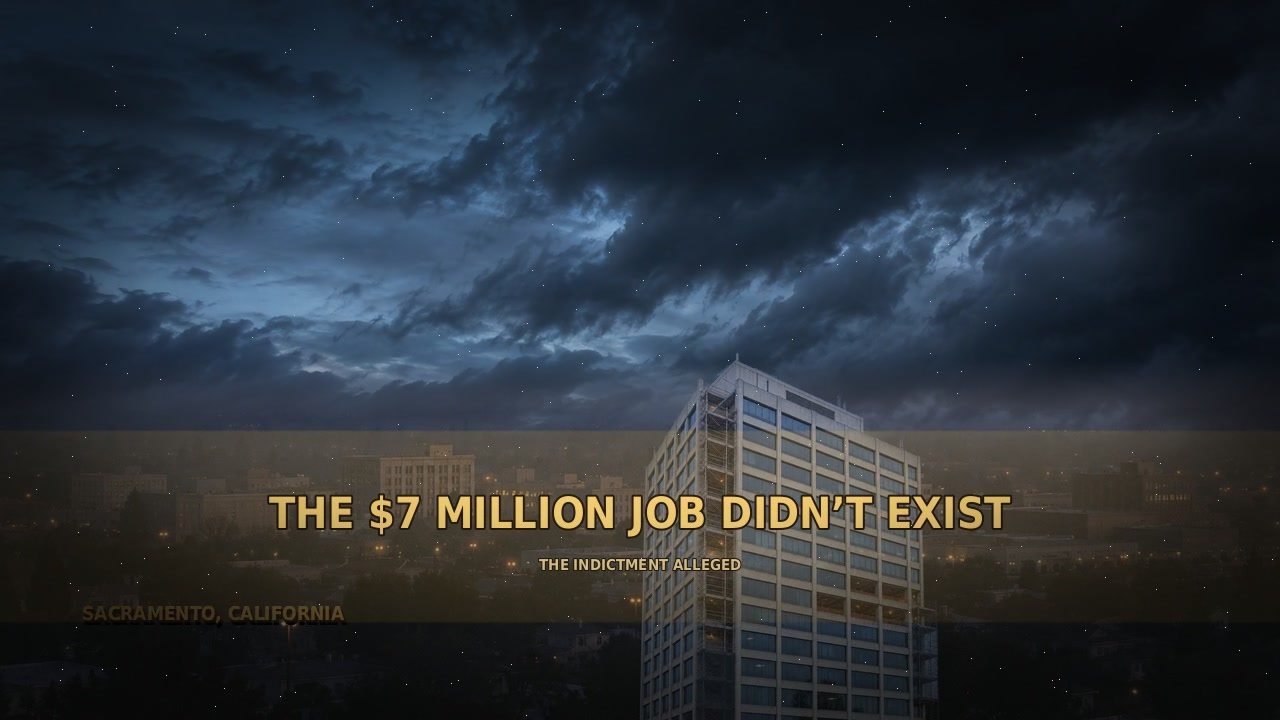
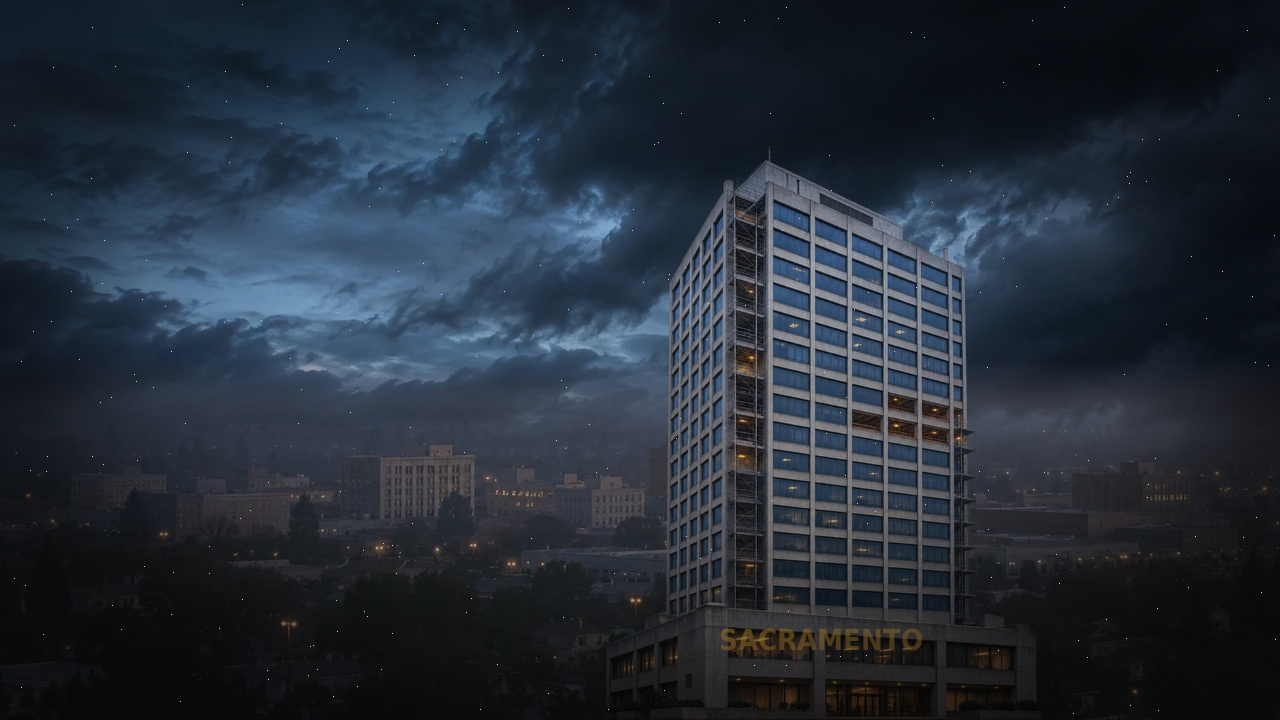
Refine Barry Minkow opening tower reveal

diff --git a/magnates-studio/public/assets/barry-minkow-opening/scene.js b/magnates-studio/public/assets/barry-minkow-opening/scene.js
@@ -2,17 +2,17 @@
 'use strict';
 const W=1280,H=720,D=8,cv=document.getElementById('stage'),ctx=cv.getContext('2d',{alpha:false});
 const root='assets/';
-const specs=[['sky','sacramento-storm-sky.webp'],['city','sacramento-skyline.webp'],['tower','office-tower-cutout.webp'],['corridor','construction-corridor.webp'],['portraitBackground','portrait-facade-background.webp'],['portrait','barry-minkow-caption-free-portrait.webp']];
+const specs=[['sky','sacramento-storm-sky.webp'],['city','sacramento-skyline.webp'],['tower','sacramento-tower-podium-cutout.webp'],['corridor','construction-corridor.webp'],['portraitBackground','portrait-facade-background.webp'],['portrait','barry-minkow-caption-free-portrait.webp']];
 const images={}; let ready=false,playing=true,anchor=performance.now(),anchorT=0,lastBeat=-1;
 const beats=[
- {a:0,b:.55,label:'Optical flash contracts and dissipates',layers:['Flash','Film texture']},
+ {a:0,b:.72,label:'A full-frame optical flare contracts to a hot spot, then dissipates',layers:['Contracting flash','Film texture']},
  {a:.55,b:1.45,label:'Storm sky and Sacramento emerge',layers:['Moving storm sky','City plate','Film grain']},
- {a:1.45,b:2.65,label:'The blue office tower rises into frame',layers:['Tower cutout','City plate','Storm sky']},
+ {a:1.45,b:2.65,label:'The blue construction tower and illuminated podium emerge as one cutout',layers:['Tower + podium cutout','City plate','Storm sky']},
  {a:2.65,b:3.85,label:'A warm searchlight scans the facade',layers:['Searchlight beam','Tower cutout']},
- {a:3.85,b:5.05,label:'The gold title unfolds across the tower',layers:['Editable title','Gold reveal matte','Tower cutout']},
- {a:5.05,b:6.35,label:'A downward gold occlusion reveals the unfinished corridor',layers:['Corridor plate','Gold wipe','Allegation qualifier']},
- {a:6.35,b:7.12,label:'The corridor advances toward camera',layers:['Corridor plate','Allegation qualifier']},
- {a:7.12,b:8,label:'Flash cut: separate portrait and facade layers assemble',layers:['Facade background','Caption-free portrait cutout','Editable name title']}
+ {a:3.85,b:5.05,label:'Textured gold “SACRAMENTO” glides right across the podium',layers:['Editable location text','Facade-texture fill','Tower + podium cutout']},
+ {a:5.05,b:6.35,label:'A gold-edged occlusion reveals the unfinished corridor',layers:['Corridor plate','Gold wipe']},
+ {a:6.35,b:7.12,label:'The corridor advances toward camera',layers:['Corridor plate']},
+ {a:7.12,b:8,label:'Flash cut: separate facade and portrait layers assemble',layers:['Facade background','Caption-free portrait cutout']}
 ];
 function E(id,file){const im=new Image();im.onload=()=>{images[id]=im;if(Object.keys(images).length===specs.length){ready=true;renderAt(0);}};im.onerror=()=>console.error('Missing Barry opening asset',file);im.src=root+file;}
 specs.forEach(s=>E(s[0],s[1]));
@@ -29,36 +29,39 @@ function drawSkyCity(t){
 function drawTower(t){
  const reveal=smooth((t-1.05)/.95), close=smooth((t-2.2)/1.25), pull=smooth((t-3.6)/.8);
  if(reveal<=0)return;
- const h=mix(385,595,close)*(1-.24*pull),w=h*(images.tower.width/images.tower.height),cx=806+mix(65,0,close)-20*pull,base=H+85;
- ctx.save();ctx.globalAlpha=reveal*(1-.24*pull);ctx.shadowColor='rgba(237,162,70,.25)';ctx.shadowBlur=26;ctx.drawImage(images.tower,cx-w/2,base-h,w,h);ctx.restore();
+ const h=mix(430,660,close)*(1-.12*pull),w=h*(images.tower.width/images.tower.height),cx=830+mix(35,0,close)-10*pull,base=H+5;
+ const x=cx-w/2,y=base-h;
+ ctx.save();ctx.globalAlpha=reveal*(1-.12*pull);ctx.shadowColor='rgba(237,162,70,.25)';ctx.shadowBlur=26;ctx.drawImage(images.tower,x,y,w,h);ctx.restore();
+ return {x,y,w,h};
 }
 function drawSearchlight(t){const p=clamp((t-2.55)/1.35);if(p<=0||p>=1)return;const sw=smooth(p),x=1010-540*sw+Math.max(0,(p-.84)/.16)*100,cy=318+Math.sin(p*Math.PI)*20;
  ctx.save();ctx.globalCompositeOperation='screen';ctx.globalAlpha=Math.sin(p*Math.PI)*.75;
  const beam=ctx.createLinearGradient(x-185,cy-165,x+205,cy+135);beam.addColorStop(0,'rgba(255,200,105,0)');beam.addColorStop(.45,'rgba(255,205,124,.1)');beam.addColorStop(.54,'rgba(255,219,155,.5)');beam.addColorStop(.62,'rgba(255,180,78,.16)');beam.addColorStop(1,'rgba(255,150,60,0)');ctx.fillStyle=beam;ctx.beginPath();ctx.moveTo(1188,148);ctx.lineTo(x-88,cy+98);ctx.lineTo(x+106,cy+116);ctx.lineTo(1210,167);ctx.closePath();ctx.fill();ctx.globalAlpha*=1.4;ctx.fillStyle='rgba(255,195,105,.22)';ctx.beginPath();ctx.moveTo(1188,148);ctx.lineTo(x-70,cy+102);ctx.lineTo(x+82,cy+116);ctx.lineTo(1210,167);ctx.closePath();ctx.fill();ctx.strokeStyle='rgba(255,230,183,.72)';ctx.lineWidth=3;ctx.beginPath();ctx.moveTo(1184,151);ctx.lineTo(x+5,cy+108);ctx.stroke();
  const glow=ctx.createRadialGradient(x,cy,2,x,cy,230);glow.addColorStop(0,'rgba(255,221,159,.34)');glow.addColorStop(1,'rgba(255,175,72,0)');ctx.fillStyle=glow;ctx.fillRect(x-240,cy-200,480,400);ctx.restore();}
-function drawGoldTitle(t){const p=smooth((t-3.75)/.95);if(p<=0)return;
- ctx.save();ctx.beginPath();ctx.rect(0,0,W*p,H);ctx.clip();ctx.globalAlpha=.14;const fill=ctx.createLinearGradient(0,430,0,622);fill.addColorStop(0,'rgba(247,190,65,.04)');fill.addColorStop(.5,'rgba(244,184,55,.6)');fill.addColorStop(1,'rgba(150,89,18,.32)');ctx.fillStyle=fill;ctx.fillRect(0,430,W,196);ctx.restore();
- const fa=smooth((t-3.95)/.45)*p;
- text((document.getElementById('hook')?.value||'').toUpperCase(),W*.52,516,48,'center',fa,1.2);text((document.getElementById('qualifier')?.value||'').toUpperCase(),W*.52,567,16,'center',fa,3.1);
- const loc=smooth((t-2.15)/.34)*(1-smooth((t-4.55)/.55));
- if(loc>0)text((document.getElementById('location')?.value||'').toUpperCase(),W*.08,594,20,'left',loc,3.4);
+function drawGoldTitle(t,tower){const p=smooth((t-3.65)/.9);if(p<=0||!tower)return;
+ const loc=smooth((t-2.25)/.34)*(1-smooth((t-4.78)/.48));if(loc<=0)return;
+ const label=(document.getElementById('location')?.value||'SACRAMENTO').toUpperCase();
+ const startX=610,endX=720,x=mix(startX,endX,smooth((t-3.75)/.78)),y=tower.y+tower.h*.855,size=29;
+ // Make the letters from the actual podium pixels, then glaze them with translucent gold.
+ const mask=document.createElement('canvas');mask.width=W;mask.height=H;const m=mask.getContext('2d');m.font='800 '+size+'px Arial, sans-serif';m.textBaseline='middle';m.textAlign='left';m.letterSpacing='2px';m.fillStyle='#fff';m.fillText(label,x,y);
+ const ink=document.createElement('canvas');ink.width=W;ink.height=H;const ic=ink.getContext('2d');ic.drawImage(images.tower,tower.x,tower.y,tower.w,tower.h);ic.globalCompositeOperation='destination-in';ic.drawImage(mask,0,0);ic.globalCompositeOperation='source-atop';ic.fillStyle='rgba(235,169,48,.62)';ic.fillRect(0,0,W,H);
+ ctx.save();ctx.globalAlpha=loc;ctx.shadowColor='rgba(255,188,67,.42)';ctx.shadowBlur=11;ctx.drawImage(ink,0,0);ctx.restore();
 }
 function drawCorridor(t){const p=smooth((t-5.05)/1.12);if(!p)return;
  ctx.save();ctx.beginPath();ctx.rect(0,H*(1-p),W,H*p);ctx.clip();const z=1.02+Math.max(0,t-5.1)*.035;cover(images.corridor,0,0,W,H,z,0,-4);ctx.restore();
  const y=H*(1-p);if(p<1){const g=ctx.createLinearGradient(0,y-18,0,y+34);g.addColorStop(0,'rgba(255,230,150,0)');g.addColorStop(.36,'rgba(255,207,91,.92)');g.addColorStop(1,'rgba(153,92,24,0)');ctx.fillStyle=g;ctx.fillRect(0,y-18,W,54);}
- const q=smooth((t-5.7)/.38);if(q>0){ctx.save();ctx.globalAlpha=q;ctx.font='700 16px Arial';ctx.textAlign='left';ctx.fillStyle='#edbd58';ctx.letterSpacing='3px';ctx.fillText((document.getElementById('qualifier')?.value||'').toUpperCase(),72,630);ctx.restore();}
 }
 function drawPortrait(t){const p=smooth((t-7.12)/.42);if(!p)return;
  ctx.save();ctx.globalAlpha=p;cover(images.portraitBackground,0,0,W,H,1.05+Math.max(0,t-7.2)*.12,-5,-2);
  const h=620,w=h*(images.portrait.width/images.portrait.height),x=234,y=H+20-h;
  ctx.globalAlpha=p;ctx.shadowColor='rgba(0,0,0,.65)';ctx.shadowBlur=30;ctx.drawImage(images.portrait,x,y,w,h);ctx.restore();
- const name=(document.getElementById('name')?.value||'').toUpperCase();text(name,850,543,56,'left',smooth((t-7.46)/.24),2.2);
 }
 function addTexture(t){ctx.save();const seed=Math.floor(t*24);for(let i=0;i<380;i++){const n=(i*9301+seed*49297+233280)%233280/233280;const m=(i*4751+seed*21831+67589)%233280/233280;ctx.globalAlpha=.025+n*.035;ctx.fillStyle=i%5?'#fff':'#ad7f50';ctx.fillRect(n*W,m*H,1+(i%3),1+(i%2));}ctx.globalAlpha=.08;ctx.fillStyle='#d8c59c';for(let i=0;i<7;i++){const x=((i*193+seed*7)%W);ctx.fillRect(x,0,1,H);}ctx.restore();}
 function renderAt(raw){if(!ready)return;const t=clamp(Number(raw)||0,0,D);ctx.clearRect(0,0,W,H);ctx.fillStyle='#08090b';ctx.fillRect(0,0,W,H);
- const pre=1-smooth((t-.02)/.62);drawSkyCity(t);drawTower(t);drawSearchlight(t);drawGoldTitle(t);drawCorridor(t);drawPortrait(t);vignette(.55);addTexture(t);
- // Film-flash starts the story and punctuates the portrait match cut; its bloom quickly shrinks away.
- const flash=Math.max(pre,Math.exp(-Math.pow((t-7.12)/.10,2))*.78);if(flash>.004){const g=ctx.createRadialGradient(640,350,20,640,350,850);g.addColorStop(0,'rgba(255,255,244,'+Math.min(.99,flash)+')');g.addColorStop(.45,'rgba(255,239,204,'+(flash*.45)+')');g.addColorStop(1,'rgba(255,239,204,0)');ctx.fillStyle=g;ctx.fillRect(0,0,W,H);}
+ drawSkyCity(t);const tower=drawTower(t);drawSearchlight(t);drawGoldTitle(t,tower);drawCorridor(t);drawPortrait(t);vignette(.55);addTexture(t);
+ // The opening flare begins beyond the frame edge, draws inward, and fades.
+ const radius=mix(1120,70,smooth(t/.66)),flash=1-smooth(t/.72);
+ const cut=Math.exp(-Math.pow((t-7.12)/.10,2))*.78;const f=Math.max(flash,cut);if(f>.004){const g=ctx.createRadialGradient(640,350,Math.max(1,radius*.012),640,350,Math.max(20,radius));g.addColorStop(0,'rgba(255,255,248,'+Math.min(.99,f)+')');g.addColorStop(.48,'rgba(255,250,230,'+(f*.98)+')');g.addColorStop(1,'rgba(255,242,213,'+(f*.82)+')');ctx.fillStyle=g;ctx.fillRect(0,0,W,H);}
  document.getElementById('scrub').value=t;document.getElementById('clock').textContent='00:'+String(Math.floor(t)).padStart(2,'0')+'.'+String(Math.floor((t%1)*100)).padStart(2,'0')+' / 00:08.00';
  const idx=beats.findIndex(b=>t>=b.a&&t<b.b)||0;if(idx!==lastBeat){lastBeat=idx;document.getElementById('beat').textContent=beats[idx].label;document.getElementById('layers').innerHTML=beats[idx].layers.map(x=>'<span class="chip">'+x+'</span>').join('');}
 }
@@ -66,6 +69,6 @@ function tick(now){if(playing){const t=(anchorT+(now-anchor)/1000)%D;renderAt(t)
 document.getElementById('play').onclick=()=>{playing=!playing;if(playing){anchor=performance.now();anchorT=Number(document.getElementById('scrub').value);}document.getElementById('play').textContent=playing?'Pause':'Play';};
 document.getElementById('restart').onclick=()=>{anchor=performance.now();anchorT=0;playing=true;document.getElementById('play').textContent='Pause';renderAt(0);};
 document.getElementById('scrub').oninput=e=>{playing=false;document.getElementById('play').textContent='Play';renderAt(Number(e.target.value));};
-for(const id of ['location','hook','qualifier','name'])document.getElementById(id).addEventListener('input',()=>renderAt(Number(document.getElementById('scrub').value)));
+document.getElementById('location').addEventListener('input',()=>renderAt(Number(document.getElementById('scrub').value)));
 window.renderBarryAt=renderAt;window.barryAssetsReady=()=>ready;window.barrySequence={fps:24,duration:D,width:W,height:H,beats};requestAnimationFrame(tick);
 })();

diff --git a/magnates-studio/public/assets/barry-minkow-opening/index.html b/magnates-studio/public/assets/barry-minkow-opening/index.html
@@ -3,8 +3,8 @@
 <style>
 :root{color-scheme:dark;font-family:Inter,Arial,sans-serif;background:#08090c;color:#f4f1e9}*{box-sizing:border-box}body{margin:0;min-height:100vh;background:radial-gradient(ellipse at 50% 0,#17202a,#08090c 65%)}.wrap{max-width:1240px;margin:0 auto;padding:24px}.head{display:flex;align-items:end;justify-content:space-between;gap:24px;margin-bottom:14px}.eyebrow{font-size:10px;letter-spacing:.22em;color:#d5a851;font-weight:800}.head h1{font-size:clamp(21px,3vw,34px);margin:5px 0 0;letter-spacing:-.03em}.head p{margin:6px 0 0;color:#9ea4aa;font-size:12px}.canvas-shell{border:1px solid #5a4b31;background:#050608;box-shadow:0 28px 100px #000a;overflow:hidden}.canvas-shell canvas{display:block;width:100%;height:auto;aspect-ratio:16/9}.controls{display:grid;grid-template-columns:auto minmax(80px,1fr) auto auto;align-items:center;gap:12px;background:#101216;padding:12px 14px;border:1px solid #25282d;border-top:0}.controls button{font:600 12px Inter,Arial;border:1px solid #4e432e;background:#19170f;color:#f0d089;border-radius:6px;padding:8px 12px;cursor:pointer}.controls button:hover{background:#282315}.controls input[type=range]{width:100%;accent-color:#d2a54c}.clock{font:12px ui-monospace,monospace;color:#ded5c0;white-space:nowrap}.beat{font-size:12px;color:#c8c0af;min-height:18px;margin:13px 0}.detail{display:grid;grid-template-columns:1.15fr .85fr;gap:20px;margin-top:16px}.panel{padding:15px 16px;background:#101216;border:1px solid #24272c;border-radius:8px}.panel h2{font-size:11px;letter-spacing:.15em;color:#d5a851;margin:0 0 12px;text-transform:uppercase}.layers{display:flex;flex-wrap:wrap;gap:7px}.chip{border:1px solid #35383b;color:#c9c4b9;border-radius:999px;padding:5px 8px;font-size:10px}.editgrid{display:grid;gap:8px}.editgrid label{font-size:10px;color:#9fa4a9}.editgrid input{width:100%;margin-top:4px;background:#090a0c;border:1px solid #34373b;border-radius:5px;padding:8px;color:#eee;font:12px Inter,Arial}.note{font-size:10px;line-height:1.55;color:#8e949b;margin:11px 0 0}.timeline{display:grid;grid-template-columns:repeat(8,1fr);gap:2px;margin-top:14px}.timeline div{height:5px;background:#38342b}.timeline div:nth-child(4n){background:#8b6b35}.status{font-size:10px;color:#7c858d;margin:10px 0 0}@media(max-width:700px){.wrap{padding:14px 10px}.head{display:block}.detail{grid-template-columns:1fr}.controls{gap:7px;padding:8px}.controls button{padding:7px}.clock{font-size:10px}}
 </style></head>
-<body><main class="wrap"><header class="head"><div><div class="eyebrow">MAGNATES STUDIO · SCENE TEMPLATE 001</div><h1>Barry Minkow: The $7 Million Job That Didn’t Exist</h1><p>Eight-second layered opening animatic · 1280 × 720 · 24 fps</p></div><div class="status">AI-generated illustrative imagery · portrait and background remain separate</div></header>
+<body><main class="wrap"><header class="head"><div><div class="eyebrow">MAGNATES STUDIO · SCENE TEMPLATE 001</div><h1>Barry Minkow · Sacramento Tower Reveal</h1><p>Eight-second layered opening animatic · 1280 × 720 · 24 fps</p></div><div class="status">AI-generated illustrative imagery · portrait and background remain separate</div></header>
 <div class="canvas-shell"><canvas id="stage" width="1280" height="720" aria-label="Animated Barry Minkow opening preview"></canvas></div>
 <div class="controls"><button id="play" type="button">Pause</button><input id="scrub" type="range" min="0" max="8" step="0.01" value="0" aria-label="Scrub through the eight-second opening"><span class="clock" id="clock">00:00.00 / 00:08.00</span><button id="restart" type="button">Restart</button></div>
 <div class="timeline"><div></div><div></div><div></div><div></div><div></div><div></div><div></div><div></div></div><div class="beat" id="beat">Optical flash contracts and dissipates</div>
-<div class="detail"><section class="panel"><h2>Active image layers</h2><div class="layers" id="layers"></div><p class="note">Each plate is replaceable. The storm clouds move independently; the office tower remains a transparent cutout for camera pushes; the corridor and portrait reveal use separate background plates. The earlier portrait composite with embedded “ILLUSTRATIVE RECONSTRUCTION” lettering is excluded.</p></section><section class="panel"><h2>Editable title layers</h2><div class="editgrid"><label>Location title<input id="location" value="SACRAMENTO, CALIFORNIA" maxlength="48"></label><label>Main hook<input id="hook" value="THE $7 MILLION JOB DIDN’T EXIST" maxlength="56"></label><label>Qualification / allegation tag<input id="qualifier" value="THE INDICTMENT ALLEGED" maxlength="48"></label><label>Portrait name<input id="name" value="BARRY MINKOW" maxlength="32"></label></div><p class="note">Text is rendered in independent editable layers, never baked into the image assets. Keep allegation wording attached to the disputed claim.</p></section></div></main><script src="scene.js"></script></body></html>
+<div class="detail"><section class="panel"><h2>Active image layers</h2><div class="layers" id="layers"></div><p class="note">The storm clouds move independently. One transparent blue-gray tower cutout includes the scaffold bay and illuminated podium, and remains the same building through the camera push. “SACRAMENTO” is a separate editor-rendered layer filled with the podium’s own image texture.</p></section><section class="panel"><h2>Editable location title</h2><div class="editgrid"><label>Location title<input id="location" value="SACRAMENTO" maxlength="24"></label></div><p class="note">The gold letters use the actual podium pixels beneath a translucent gold glaze; the title travels right across the base. No headline or allegation copy is baked into the scene.</p></section></div></main><script src="scene.js"></script></body></html>

diff --git a/magnates-studio/public/js/regaarder-shell.js b/magnates-studio/public/js/regaarder-shell.js
@@ -47,7 +47,7 @@
  const luckinTemplate={id:luckinId,title:'Luckin Coffee · Investigation Intro (30s)',category:'Business Storytelling',origCategory:'Business Storytelling',libraryKind:'scene',previewOnly:true,badge:'28-STATE ANIMATIC',difficulty:'Preview',timeToApply:'30 sec',previewGradient:'linear-gradient(135deg,#0d1d2a,#07090d)',description:'Evidence-led cinematic opening with staged map, app, cup-pickup, investigation, and paper reveals. Open the interactive 24 fps preview to scrub all 28 storyboard states and inspect layer groups.',tags:['Luckin Coffee','Documentary','Investigation','28 Frames','Layered Motion'],defaultImage:'/assets/luckin-coffee-storyboard/template/card-preview.jpg'};
  if(!meta().some(t=>t.id===luckinId))meta().push(luckinTemplate);
  const barryOpeningId='barry-minkow-opening';
- const barryOpening={id:barryOpeningId,title:'Barry Minkow · The $7 Million Job That Didn’t Exist',category:'Business Storytelling',origCategory:'Business Storytelling',libraryKind:'scene',previewOnly:true,badge:'8-SECOND LAYERED OPENING',difficulty:'Preview',timeToApply:'8 sec',previewGradient:'linear-gradient(135deg,#263543,#08090c)',description:'Flash bloom into Sacramento, separate moving storm sky, a blue tower cutout with a sweeping searchlight, editable gold title, corridor occlusion wipe, then a separate facade and caption-free portrait reveal. Scrub the eight-second animatic and edit each title layer.',tags:['Barry Minkow','Fraud','Documentary','8 Seconds','Layered Motion','Editable Titles'],defaultImage:'/assets/barry-minkow-opening/preview-poster.jpg'};
+ const barryOpening={id:barryOpeningId,title:'Barry Minkow · Sacramento Tower Reveal',category:'Business Storytelling',origCategory:'Business Storytelling',libraryKind:'scene',previewOnly:true,badge:'8-SECOND LAYERED OPENING',difficulty:'Preview',timeToApply:'8 sec',previewGradient:'linear-gradient(135deg,#263543,#08090c)',description:'An expanding optical flash reveals Sacramento beneath moving storm clouds. One blue-gray construction tower cutout, including its lit podium, holds through the camera push as a searchlight sweeps and textured gold SACRAMENTO glides right across the base. A corridor wipe leads to separate facade and portrait layers.',tags:['Barry Minkow','Fraud','Documentary','8 Seconds','Layered Motion','Editable Location'],defaultImage:'/assets/barry-minkow-opening/preview-poster.jpg'};
  if(!meta().some(t=>t.id===barryOpeningId))meta().push(barryOpening);
  const luckinPart2Id='luckin-coffee-fraud-unravels';
  const luckinPart2={id:luckinPart2Id,title:'Luckin Coffee · The Fraud Unravels (30–60s)',category:'Business Storytelling',origCategory:'Business Storytelling',libraryKind:'scene',previewOnly:true,badge:'28-FRAME STORYBOARD',difficulty:'Storyboard',timeToApply:'30 sec',previewGradient:'linear-gradient(135deg,#14232d,#080b10)',description:'The next 30 seconds: SEC-attributed allegations, the audit discovery, company response, settlement, and delisting. Scrub 28 storyboard frames and inspect the planned motion and later asset needs.',tags:['Luckin Coffee','Documentary','Storyboard','28 Frames','Motion Plan'],defaultImage:'/assets/luckin-coffee-storyboard/template/part2/card-preview.svg'};
@@ -64,7 +64,7 @@
  const part2Dialog=previewDialog.cloneNode(true);part2Dialog.id='modal-luckin-part2-preview';part2Dialog.setAttribute('aria-label','Luckin Coffee Part 2 storyboard preview');part2Dialog.querySelector('span').textContent='Luckin Coffee · The Fraud Unravels · 30–60-second storyboard';part2Dialog.querySelector('iframe').title='Interactive Luckin Coffee next 30 seconds storyboard';document.body.appendChild(part2Dialog);
  const part2Frame=part2Dialog.querySelector('[data-luckin-frame]');part2Dialog.querySelector('[data-luckin-close]').addEventListener('click',()=>part2Dialog.close());part2Dialog.addEventListener('click',event=>{if(event.target===part2Dialog)part2Dialog.close();});part2Dialog.addEventListener('close',()=>{part2Frame.src='about:blank';});
  const openLuckinPart2Preview=()=>{part2Frame.src='/assets/luckin-coffee-storyboard/template/part2/';part2Dialog.showModal();part2Dialog.querySelector('[data-luckin-close]').focus();};
- const barryDialog=previewDialog.cloneNode(true);barryDialog.id='modal-barry-minkow-opening-preview';barryDialog.setAttribute('aria-label','Barry Minkow eight-second opening preview');barryDialog.querySelector('span').textContent='Barry Minkow · The $7 Million Job That Didn’t Exist · 8-second layered opening';barryDialog.querySelector('iframe').title='Interactive Barry Minkow eight-second opening preview';document.body.appendChild(barryDialog);
+ const barryDialog=previewDialog.cloneNode(true);barryDialog.id='modal-barry-minkow-opening-preview';barryDialog.setAttribute('aria-label','Barry Minkow eight-second opening preview');barryDialog.querySelector('span').textContent='Barry Minkow · Sacramento Tower Reveal · 8-second layered opening';barryDialog.querySelector('iframe').title='Interactive Barry Minkow eight-second opening preview';document.body.appendChild(barryDialog);
  const barryFrame=barryDialog.querySelector('[data-luckin-frame]');barryDialog.querySelector('[data-luckin-close]').addEventListener('click',()=>barryDialog.close());barryDialog.addEventListener('click',event=>{if(event.target===barryDialog)barryDialog.close();});barryDialog.addEventListener('close',()=>{barryFrame.src='about:blank';});
  const openBarryPreview=()=>{barryFrame.src='/assets/barry-minkow-opening/';barryDialog.showModal();barryDialog.querySelector('[data-luckin-close]').focus();};
  const applyTemplate=window.applySelectedHomepageTemplate;

diff --git a/magnates-studio/public/assets/barry-minkow-opening/render_preview.py b/magnates-studio/public/assets/barry-minkow-opening/render_preview.py
@@ -1,11 +1,12 @@
 from PIL import Image, ImageDraw, ImageFont, ImageFilter, ImageEnhance
 from pathlib import Path
 import math, random
+import numpy as np
 BASE=Path(__file__).resolve().parent
 AS=BASE/'assets'
 OUT=BASE/'preview-frames'; OUT.mkdir(exist_ok=True)
 W,H,FPS=1280,720,24
-im={k:Image.open(AS/v).convert('RGBA') for k,v in {'sky':'sacramento-storm-sky.webp','city':'sacramento-skyline.webp','tower':'office-tower-cutout.webp','corridor':'construction-corridor.webp','pbg':'portrait-facade-background.webp','portrait':'barry-minkow-caption-free-portrait.webp'}.items()}
+im={k:Image.open(AS/v).convert('RGBA') for k,v in {'sky':'sacramento-storm-sky.webp','city':'sacramento-skyline.webp','tower':'sacramento-tower-podium-cutout.webp','corridor':'construction-corridor.webp','pbg':'portrait-facade-background.webp','portrait':'barry-minkow-caption-free-portrait.webp'}.items()}
 font='/usr/share/fonts/truetype/dejavu/DejaVuSans-Bold.ttf'
 font_cond='/usr/share/fonts/truetype/dejavu/DejaVuSansCondensed-Bold.ttf'
 def fnt(size,cond=False): return ImageFont.truetype(font_cond if cond else font,size)
@@ -33,40 +34,32 @@ def draw(t):
  sky.putalpha(mask)
  blend(frame,sky)
  haze=Image.new('RGBA',(W,H));hd=ImageDraw.Draw(haze);hd.rectangle((0,340,W,H),fill=(5,10,16,60));haze=haze.filter(ImageFilter.GaussianBlur(48));blend(frame,haze,.8)
- # tower cutout arrives, pushes close, then eases back under title
+ # One tower+podium cutout arrives, pushes close, then eases back.
  rev=sm((t-1.05)/.95);close=sm((t-2.2)/1.25);pull=sm((t-3.6)/.8)
+ tower_box=None
  if rev>0:
-  h=int((385+(595-385)*close)*(1-.24*pull));w=int(h*im['tower'].width/im['tower'].height);tower=im['tower'].resize((w,h),Image.Resampling.LANCZOS);layer=Image.new('RGBA',(W,H));cx=int(806+65*(1-close)-20*pull);layer.alpha_composite(tower,(cx-w//2,H+85-h));blend(frame,layer,rev*(1-.24*pull))
+  h=int((430+(660-430)*close)*(1-.12*pull));w=int(h*im['tower'].width/im['tower'].height);tower=im['tower'].resize((w,h),Image.Resampling.LANCZOS);layer=Image.new('RGBA',(W,H));cx=int(830+35*(1-close)-10*pull);x=cx-w//2;y=H+5-h;layer.alpha_composite(tower,(x,y));blend(frame,layer,rev*(1-.12*pull));tower_box=(x,y,w,h)
  # moving warm searchlight: directional trapezoid and soft spill
  p=max(0,min(1,(t-2.55)/1.35))
  if 0<p<1:
   x=int(1010-540*sm(p)+max(0,(p-.84)/.16)*100); glow=Image.new('RGBA',(W,H));g=ImageDraw.Draw(glow);g.polygon([(1188,148),(x-88,416),(x+106,434),(1210,167)],fill=(255,192,104,86));g.line([(1184,151),(x+5,425)],fill=(255,226,172,170),width=4);g.ellipse((x-190,245,x+190,475),fill=(255,209,139,48));glow=glow.filter(ImageFilter.GaussianBlur(23));blend(frame,glow,math.sin(p*math.pi)*1.1); core=Image.new('RGBA',(W,H));cd=ImageDraw.Draw(core);cd.line([(1184,151),(x+5,425)],fill=(255,225,165,180),width=5);cd.ellipse((x-20,408,x+28,448),fill=(255,210,125,130));core=core.filter(ImageFilter.GaussianBlur(8));blend(frame,core,math.sin(p*math.pi))
- # location slug and expanded textured gold plate/title
+ # A rightward-moving location title uses the same image pixels as the podium.
  d=ImageDraw.Draw(frame)
- loc=sm((t-2.08)/.3)*(1-sm((t-4.45)/.45))
- if loc>0:tit(d,'SACRAMENTO, CALIFORNIA',(82,613),19,(250,211,135,int(255*loc)),'lm')
- hp=sm((t-3.75)/.95)
- if hp>0:
-  plate=Image.new('RGBA',(W,H));pd=ImageDraw.Draw(plate);pd.rectangle((0,430,int(W*hp),622),fill=(226,164,55,55));plate=plate.filter(ImageFilter.GaussianBlur(1));blend(frame,plate,.8)
-  # reveal line and title; delayed so the location setup reads first
-  ta=sm((t-3.95)/.45)*hp
-  if ta>0:
-   d=ImageDraw.Draw(frame);d.text((W//2,513),'THE $7 MILLION JOB DIDN’T EXIST',font=fnt(43,True),fill=(250,211,116,int(255*ta)),anchor='mm',stroke_width=2,stroke_fill=(43,29,14,int(135*ta)));d.text((W//2,565),'THE INDICTMENT ALLEGED',font=fnt(15,True),fill=(252,223,160,int(255*ta)),anchor='mm',stroke_width=1,stroke_fill=(43,29,14,int(100*ta)))
+ loc=sm((t-2.25)/.34)*(1-sm((t-4.78)/.48))
+ if loc>0 and tower_box:
+  x0,y0,tw,th=tower_box;px=int(610+110*sm((t-3.75)/.78));py=int(y0+th*.855);mask=Image.new('L',(W,H));md=ImageDraw.Draw(mask);md.text((px,py),'SACRAMENTO',font=fnt(29,True),fill=255,anchor='lm',stroke_width=0)
+  source=Image.new('RGBA',(W,H));scaled=im['tower'].resize((tw,th),Image.Resampling.LANCZOS);source.alpha_composite(scaled,(x0,y0));arr=np.asarray(source).copy();mat=np.asarray(mask,dtype=np.float32)*loc;gold=np.array([238,177,59],dtype=np.float32);arr[:,:,:3]=np.clip(arr[:,:,:3]*.42+gold*.58,0,255).astype(np.uint8);arr[:,:,3]=(arr[:,:,3].astype(np.float32)*mat/255).astype(np.uint8);frame.alpha_composite(Image.fromarray(arr,'RGBA'))
  # gold downward occlusion opens corridor from bottom, like a moving layer not a crossfade
  cp=sm((t-5.05)/1.12)
  if cp>0:
   corridor=cover(im['corridor'],1.02+max(0,t-5.1)*.035,0,-4);reveal=int(H*cp);crop=corridor.crop((0,H-reveal,W,H));frame.alpha_composite(crop,(0,H-reveal))
   if cp<1:
    edge=Image.new('RGBA',(W,50));ed=ImageDraw.Draw(edge);ed.line((0,22,W,22),fill=(255,208,104,215),width=3);edge=edge.filter(ImageFilter.GaussianBlur(10));frame.alpha_composite(edge,(0,H-reveal-24))
-  q=sm((t-5.7)/.38)
-  if q>0:tit(ImageDraw.Draw(frame),'THE INDICTMENT ALLEGED',(72,630),16,(235,186,82,int(q*255)),'lm')
  # fast light flash, then the clean portrait over a distinct facade background
  fp=sm((t-7.12)/.42)
  if fp>0:
   bg=cover(im['pbg'],1.05+max(0,t-7.2)*.12,-5,-2);blend(frame,bg,fp)
   ph=620;pw=int(ph*im['portrait'].width/im['portrait'].height);person=im['portrait'].resize((pw,ph),Image.Resampling.LANCZOS);pl=Image.new('RGBA',(W,H));pl.alpha_composite(person,(234,H+20-ph));blend(frame,pl,fp)
-  na=sm((t-7.46)/.24);d=ImageDraw.Draw(frame)
-  if na>0:tit(d,'BARRY MINKOW',(850,543),53,(246,210,135,int(na*255)),'lm')
 
  # painterly vignette and deterministic analog flecks
  vign=Image.new('RGBA',(W,H));vd=ImageDraw.Draw(vign);vd.ellipse((-260,-220,W+260,H+220),fill=(0,0,0,0),outline=(0,0,0,175),width=320);vign=vign.filter(ImageFilter.GaussianBlur(70));blend(frame,vign)
@@ -74,9 +67,9 @@ def draw(t):
  for i in range(260):
   x=random.randrange(W);y=random.randrange(H);d.point((x,y),fill=(220,207,174,random.randrange(4,20)))
  # Flash opacity blooms and falls away; second flash masks the scene change.
- pre=1-sm((t-.02)/.62);flash=max(pre,math.exp(-((t-7.12)/.10)**2)*.78)
+ radius=1120+(70-1120)*sm(t/.66);flash=1-sm(t/.72);flash=max(flash,math.exp(-((t-7.12)/.10)**2)*.78)
  if flash>.005:
-  flare=Image.new('RGBA',(W,H),(0,0,0,0));fd=ImageDraw.Draw(flare);fd.ellipse((-80,-120,W+80,H+110),fill=(255,248,225,int(min(.97,flash)*228)));flare=flare.filter(ImageFilter.GaussianBlur(125));blend(frame,flare)
+  small_w,small_h=320,180;yy,xx=np.mgrid[0:small_h,0:small_w];dist=np.sqrt(((xx-small_w/2)*W/small_w)**2+((yy-small_h/2)*H/small_h)**2);rad=max(20,radius);values=np.clip(1-dist/rad,0,1)**.72*min(.99,flash);values=np.where(dist<rad*.48, min(.99,flash), values);values=np.clip(np.maximum(np.where(dist<rad, np.maximum(values, min(.99,flash)*.82*(1-(dist/rad-.48)/.52)), 0), min(.99,flash)*.82),0,1);alpha_map=Image.fromarray(np.uint8(values*255),'L').resize((W,H),Image.Resampling.BILINEAR);flare=Image.new('RGBA',(W,H),(255,246,220,0));flare.putalpha(alpha_map);blend(frame,flare)
  return frame.convert('RGB')
 for i in range(FPS*8):
  imf=draw(i/FPS);imf.save(OUT/f'frame-{i:04d}.jpg',quality=94,optimize=True)

diff --git a/magnates-studio/public/assets/barry-minkow-opening/README.md b/magnates-studio/public/assets/barry-minkow-opening/README.md
@@ -6,30 +6,30 @@ An eight-second, 24 fps, 1280 × 720 opening animatic registered in the Studio h
 
 | Time | Picture and motion |
 | --- | --- |
-| 00:00.00–00:00.55 | Warm white optical flash contracts and dissipates. |
+| 00:00.00–00:00.72 | A full-frame warm flare contracts to a hot spot, then dissipates. |
 | 00:00.55–00:01.45 | Storm clouds drift independently above the Sacramento skyline. |
-| 00:01.45–00:02.65 | The transparent blue office-tower cutout rises into frame as the camera pushes closer. |
-| 00:02.65–00:03.85 | A warm searchlight sweeps from right to left across the tower, then begins to turn back. |
-| 00:03.85–00:05.05 | A translucent, textured gold field and editable title reveal across the facade. |
-| 00:05.05–00:06.35 | A gold-edged occlusion climbs as the view changes upward from tower to unfinished corridor. |
-| 00:06.35–00:07.12 | The corridor makes a slow forward camera move; “THE INDICTMENT ALLEGED” stays attached to the claim. |
-| 00:07.12–00:08.00 | Brief flash match cut reveals a separate grayscale facade plate, then the caption-free transparent portrait cutout and editable name. |
+| 00:01.45–00:02.65 | A single transparent blue-gray construction tower cutout, including its scaffold bay and illuminated podium, rises into view as the camera pushes in. |
+| 00:02.65–00:03.85 | A warm searchlight sweeps from right to left across the tower. |
+| 00:02.25–00:04.78 | The editable word “SACRAMENTO” appears on the podium and glides right. Its letters contain the actual podium image texture beneath a translucent gold tint. |
+| 00:05.05–00:06.35 | A gold-edged occlusion reveals the unfinished corridor. |
+| 00:06.35–00:07.12 | The corridor makes a slow forward camera move. |
+| 00:07.12–00:08.00 | A brief flash cut reveals the separate grayscale facade plate and caption-free portrait cutout. |
 
 ## Using the preview
 
-Open this directory through the Studio server at `/assets/barry-minkow-opening/`. Scrub the timeline, play or restart, and change each title field. Title text is drawn by Canvas as independent overlays and is never baked into source imagery. Asset paths, roles, and timing are also in `manifest.json`.
+Open this directory through the Studio server at `/assets/barry-minkow-opening/`. Scrub, play, or restart the animatic and edit the location text. The headline, allegation tag, and portrait name are removed. Text remains editor-rendered and is not baked into image assets.
 
 ## Asset status
 
-All six source layers are AI-generated illustrative scene art. The portrait is a caption-free, AI-generated reconstruction, not an authenticated likeness or archival photograph. Its grayscale facade background is a distinct layer. The previous composite with embedded “ILLUSTRATIVE RECONSTRUCTION” lettering is not included. Replace the portrait slot with verified Barry Minkow archival media if identity-level accuracy is required.
+The tower-and-podium cutout and the other scene plates are AI-generated illustrative art, not archival images of a verified real building. The portrait is an AI-generated reconstruction, not an authenticated likeness or archival photograph; its grayscale facade background is a separate layer. Replace the portrait slot with verified Barry Minkow archival media if identity-level accuracy is required.
 
 ## Render a review MP4
 
-Requires Python Pillow and FFmpeg. From this directory:
+Requires Python Pillow, NumPy, and FFmpeg. From this directory:
 
 ```sh
 python3 render_preview.py
 ffmpeg -y -framerate 24 -i preview-frames/frame-%04d.jpg -an -c:v libx264 -preset slow -crf 18 -pix_fmt yuv420p -movflags +faststart preview.mp4
 ```
 
-The delivered review render is silent. The HTML Canvas preview remains the editable source for timing, title copy, easing, and compositing changes.
+The review render is silent. The HTML Canvas preview is the editable source for timing, text, easing, and compositing.
